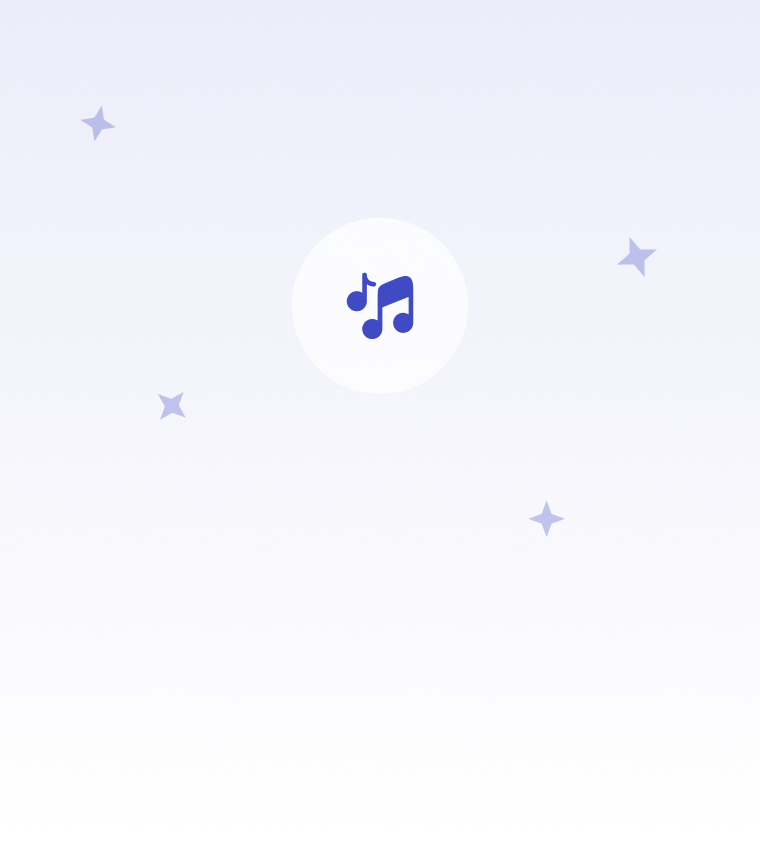
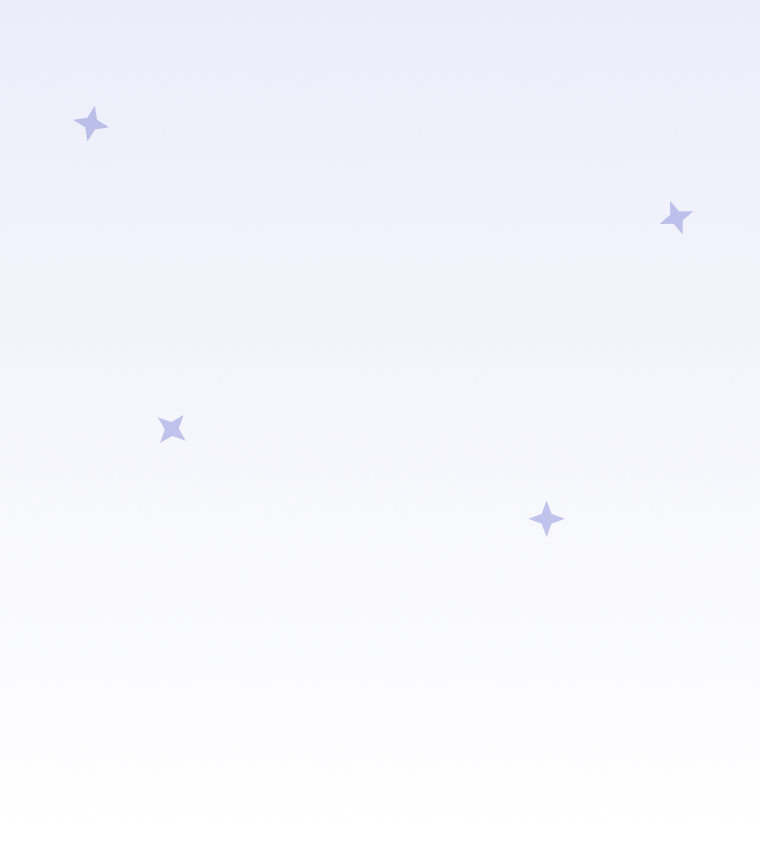
playlist heros change

diff --git a/lib/features/playlists/presentation/playlist/playlist_screen.dart b/lib/features/playlists/presentation/playlist/playlist_screen.dart
@@ -12,6 +12,7 @@ import 'package:go_sport/domain/entities/playlist.dart';
 import 'package:go_sport/domain/entities/track.dart';
 import 'package:go_sport/domain/state/like_registry.dart';
 import 'package:go_sport/domain/state/player_state.dart';
+import 'package:go_sport/features/playlists/presentation/widgets/custom_playlist_hero.dart';
 import 'package:go_sport/features/shared_widgets/dotted_divider.dart';
 
 import 'custom_playlist_controller.dart';
@@ -194,7 +195,12 @@ class _PlaylistScreenState extends ConsumerState<PlaylistScreen> {
         tracksState.mapOrNull(data: (d) => d.tracks) ?? const <Track>[];
     final screenHeight = MediaQuery.of(context).size.height;
     final expandedHeight = screenHeight * 0.5;
+    final hasTracks =
+        tracksState.mapOrNull(data: (data) => data.tracks.isNotEmpty) ?? false;
+    final isCustom = widget.playlist!.type == PlaylistType.custom;
 
+    print('widget.playlist,  ${widget.playlist!.type}');
+    print('hasTracks,  $hasTracks');
     return Scaffold(
       backgroundColor: DSColors.white,
       body: CustomScrollView(
@@ -282,17 +288,13 @@ class _PlaylistScreenState extends ConsumerState<PlaylistScreen> {
               //   ),
             ],
             flexibleSpace: FlexibleSpaceBar(
-              background: PlaylistHero(
-                playlist: pl,
-                isLiked: isLikedFromRegistry,
-                isPlaying: isThisPlaying,
-                showPlayButton:
-                    tracksState.mapOrNull(
-                      data: (data) => data.tracks.isNotEmpty,
-                    ) ??
-                    false,
-                onActionTap: widget.type == PlaylistType.custom
-                    ? () => showAddTracksBottomSheet(
+              background: isCustom
+                  ? CustomPlaylistHero(
+                      playlist: pl,
+                      isLiked: isLikedFromRegistry,
+                      isPlaying: isThisPlaying,
+                      showPlayButton: hasTracks,
+                      onActionTap: () => showAddTracksBottomSheet(
                         context: context,
                         existingTrackIds: currentTracks
                             .map((t) => t.id)
@@ -304,23 +306,43 @@ class _PlaylistScreenState extends ConsumerState<PlaylistScreen> {
                               ).notifier,
                             )
                             .addTracks(tracks),
-                      )
-                    : () => _onLikeTap(ref, pl),
-                onPlayTap: () {
-                  final tracksValue = tracksState.mapOrNull(
-                    data: (data) => data.tracks,
-                  );
-                  if (tracksValue != null) {
-                    _onPlayTap(
-                      ref,
-                      tracksValue,
-                      pl.title,
-                      pl.imageUrl,
-                      isThisActiveSource,
-                    );
-                  }
-                },
-              ),
+                      ),
+                      onPlayTap: () {
+                        final tracksValue = tracksState.mapOrNull(
+                          data: (data) => data.tracks,
+                        );
+                        if (tracksValue != null) {
+                          _onPlayTap(
+                            ref,
+                            tracksValue,
+                            pl.title,
+                            pl.imageUrl,
+                            isThisActiveSource,
+                          );
+                        }
+                      },
+                    )
+                  : PlaylistHero(
+                      playlist: pl,
+                      isLiked: isLikedFromRegistry,
+                      isPlaying: isThisPlaying,
+                      showPlayButton: hasTracks,
+                      onActionTap: () => _onLikeTap(ref, pl),
+                      onPlayTap: () {
+                        final tracksValue = tracksState.mapOrNull(
+                          data: (data) => data.tracks,
+                        );
+                        if (tracksValue != null) {
+                          _onPlayTap(
+                            ref,
+                            tracksValue,
+                            pl.title,
+                            pl.imageUrl,
+                            isThisActiveSource,
+                          );
+                        }
+                      },
+                    ),
             ),
             bottom: PreferredSize(
               preferredSize: const Size.fromHeight(24),
@@ -390,18 +412,55 @@ class _PlaylistScreenState extends ConsumerState<PlaylistScreen> {
                     child: Stack(
                       fit: StackFit.expand,
                       children: [
-                        Image.asset(
-                          'assets/images/empty_playlist.png',
-                          fit: BoxFit.cover,
+                        ClipRRect(
+                          borderRadius: BorderRadius.circular(12),
+                          child: Image.asset(
+                            'assets/images/empty_playlist.png',
+                            fit: BoxFit.cover,
+                          ),
                         ),
                         Positioned(
                           top: 40,
                           left: 0,
                           right: 0,
-                          child: Text(
-                            'Start adding songs\nthey\'ll appear here.',
-                            textAlign: TextAlign.center,
-                            style: context.subtitleMBold,
+                          child: Column(
+                            children: [
+                              Text(
+                                'Start adding songs\nthey\'ll appear here.',
+                                textAlign: TextAlign.center,
+                                style: context.subtitleMBold,
+                              ),
+                              SizedBox(height: 22),
+                              ElevatedButton.icon(
+                                onPressed: () => showAddTracksBottomSheet(
+                                  context: context,
+                                  existingTrackIds: currentTracks
+                                      .map((t) => t.id)
+                                      .toSet(),
+                                  onSave: (tracks) => ref
+                                      .read(
+                                        customPlaylistControllerProvider(
+                                          widget.playlistId,
+                                        ).notifier,
+                                      )
+                                      .addTracks(tracks),
+                                ),
+                                style: ElevatedButton.styleFrom(
+                                  backgroundColor: DSColors.blue,
+                                ),
+                                icon: SvgPicture.asset(
+                                  'assets/icons/plus.svg',
+                                  height: 22,
+                                  width: 22,
+                                ),
+                                label: Text(
+                                  'Add Track',
+                                  style: context.subtitleLBold?.copyWith(
+                                    color: DSColors.lime,
+                                  ),
+                                ),
+                              ),
+                            ],
                           ),
                         ),
                       ],

diff --git a/lib/features/playlists/presentation/widgets/custom_playlist_hero.dart b/lib/features/playlists/presentation/widgets/custom_playlist_hero.dart
@@ -1,14 +1,12 @@
 import 'package:flutter/material.dart';
-import 'package:go_sport/design_system/components/network_image/ds_network_image.dart';
 import 'package:flutter_svg/flutter_svg.dart';
 import 'package:go_sport/design_system/ds_extensions.dart';
 import 'package:go_sport/design_system/foundations/ds_colors.dart';
 import 'package:go_sport/design_system/foundations/ds_spacing.dart';
 import 'package:go_sport/design_system/foundations/ds_layout.dart';
 import 'package:go_sport/domain/entities/playlist.dart';
-import 'package:go_sport/features/shared_widgets/hero_like_button.dart';
 
-class PlaylistHero extends StatelessWidget {
+class CustomPlaylistHero extends StatelessWidget {
   final Playlist playlist;
   final bool isLiked;
   final bool isPlaying;
@@ -16,7 +14,7 @@ class PlaylistHero extends StatelessWidget {
   final VoidCallback onPlayTap;
   final bool showPlayButton;
 
-  const PlaylistHero({
+  const CustomPlaylistHero({
     super.key,
     required this.playlist,
     required this.isLiked,
@@ -32,7 +30,10 @@ class PlaylistHero extends StatelessWidget {
       fit: StackFit.expand,
       children: [
         // Background image
-        DSNetworkImage(imageUrl: playlist.imageUrl),
+        Image.asset(
+          'assets/images/custom_playlist_cover.png',
+          fit: BoxFit.cover,
+        ),
 
         // Gradient overlay
         const DecoratedBox(
@@ -66,9 +67,31 @@ class PlaylistHero extends StatelessWidget {
                 Row(
                   mainAxisAlignment: MainAxisAlignment.center,
                   children: [
-                    HeroLikeButton(isLiked: isLiked, onActionTap: onActionTap),
-
                     if (showPlayButton) ...[
+                      GestureDetector(
+                        onTap: onActionTap,
+                        behavior: HitTestBehavior.opaque,
+                        child: Container(
+                          width: 48,
+                          height: 48,
+                          decoration: BoxDecoration(
+                            // Orange fill only for liked featured playlists. Custom playlists stay translucent.
+                            color: DSColors.white.withValues(alpha: 0.25),
+                            shape: BoxShape.circle,
+                          ),
+                          child: Center(
+                            child: SvgPicture.asset(
+                              'assets/icons/plus.svg',
+                              width: 18,
+                              height: 18,
+                              colorFilter: const ColorFilter.mode(
+                                DSColors.lime,
+                                BlendMode.srcIn,
+                              ),
+                            ),
+                          ),
+                        ),
+                      ),
                       const SizedBox(width: DSSpacing.m),
                       // Play button
                       GestureDetector(

diff --git a/lib/features/shared_widgets/hero_like_button.dart b/lib/features/shared_widgets/hero_like_button.dart
@@ -1,6 +1,5 @@
 import 'package:flutter/material.dart';
 import 'package:flutter_riverpod/flutter_riverpod.dart';
-import 'package:flutter_svg/flutter_svg.dart';
 import 'package:go_sport/core/auth/auth_state.dart';
 import 'package:go_sport/design_system/components/icons/ds_heart_icon.dart';
 import 'package:go_sport/design_system/foundations/ds_colors.dart';
@@ -8,14 +7,12 @@ import 'package:go_sport/design_system/foundations/ds_icon_size.dart';
 
 class HeroLikeButton extends ConsumerWidget {
   final bool isLiked;
-  final bool isCustom; // Optional with false as default
   final VoidCallback onActionTap;
 
   const HeroLikeButton({
     super.key,
     required this.isLiked,
     required this.onActionTap,
-    this.isCustom = false, // Defaults to standard playlist view
   });
 
   @override
@@ -33,27 +30,17 @@ class HeroLikeButton extends ConsumerWidget {
         height: 48,
         decoration: BoxDecoration(
           // Orange fill only for liked featured playlists. Custom playlists stay translucent.
-          color: (!isCustom && isLiked)
+          color: (isLiked)
               ? DSColors.orange
               : DSColors.white.withValues(alpha: 0.25),
           shape: BoxShape.circle,
         ),
         child: Center(
-          child: isCustom
-              ? SvgPicture.asset(
-                  'assets/icons/plus.svg',
-                  width: 18,
-                  height: 18,
-                  colorFilter: const ColorFilter.mode(
-                    DSColors.lime,
-                    BlendMode.srcIn,
-                  ),
-                )
-              : DSHeartIcon(
-                  color: DSColors.white,
-                  size: DSIconSize.s32,
-                  isFilled: isLiked,
-                ),
+          child: DSHeartIcon(
+            color: DSColors.white,
+            size: DSIconSize.s32,
+            isFilled: isLiked,
+          ),
         ),
       ),
     );
